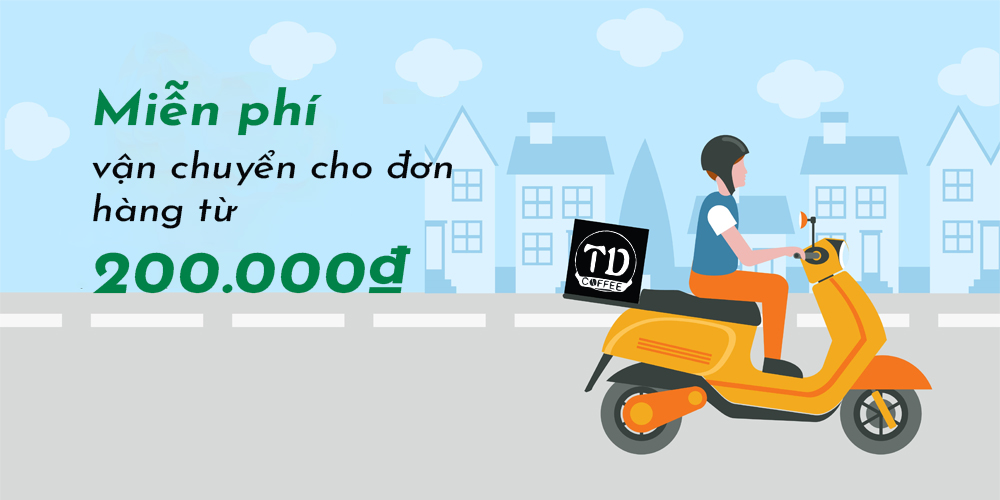
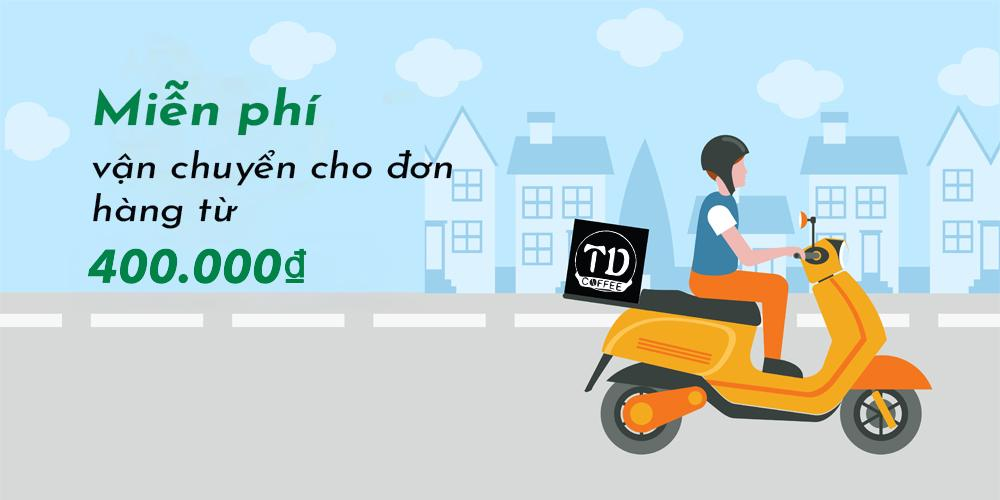
Update free ship

diff --git a/src/components/ShowShopcart/AllCartItem.tsx b/src/components/ShowShopcart/AllCartItem.tsx
@@ -6,7 +6,7 @@ import { IShopcartItem } from '@types';
 import { message } from 'antd';
 import { comma, convertToUrl, renderImageLink } from 'helper';
 import Link from 'next/link';
-import { removeItem } from 'redux/slice/shopcartSlice';
+import { removeItem, updateQuantity } from 'redux/slice/shopcartSlice';
 import { RootState } from 'redux/store';
 
 import InputNumber from 'components/InputNumber';
@@ -17,14 +17,14 @@ const AllCartItem = React.forwardRef<HTMLInputElement>((_, ref) => {
   const totalPrice = shopcart.reduce((total, item) => {
     return +item.quantity * +item.product.price + total;
   }, 0);
-  const [quantity, setQuantity] = useState('[]');
+  const [quantity, setQuantity] = useState<{ index: number; value: number }[]>([]);
 
   const productUrl = (item: IShopcartItem) => {
     return convertToUrl(`${item.product.name}-${item.product.id}`);
   };
 
   const handleChange = (value: number, index: number): void => {
-    const quan = JSON.parse(quantity);
+    const quan = [...quantity];
     let isExist = false;
     quan.forEach((element: { index: number; value: number }) => {
       if (element.index === index) {
@@ -35,8 +35,10 @@ const AllCartItem = React.forwardRef<HTMLInputElement>((_, ref) => {
     if (!isExist) {
       quan.push({ index, value });
     }
-    setQuantity(JSON.stringify(quan));
+    dispatch(updateQuantity({ index: index, value }));
+    setQuantity(quan);
   };
+
   const handleRemove = (_: React.MouseEvent, index: number): void => {
     message.success('Xóa sản phẩm thành công');
     dispatch(removeItem(index));

diff --git a/src/components/CheckOutItem.tsx b/src/components/CheckOutItem.tsx
@@ -2,6 +2,7 @@ import React, { useRef } from 'react';
 import { Form } from 'react-bootstrap';
 import { BsArrowLeftShort } from 'react-icons/bs';
 import { useSelector } from 'react-redux';
+import { FREE_SHIPPING } from '@constants';
 import { comma, renderImageLink } from 'helper';
 import { RootState } from 'redux/store';
 
@@ -12,7 +13,7 @@ const CheckOutItem: React.FC = () => {
   }, 0);
   const discount = order.promotionCode ? order.promotionCode.discount : 0;
   const shippingFee = order.shippingFee;
-  const shippingFeeReal = total < 200000 && shippingFee ? shippingFee : 0;
+  const shippingFeeReal = total < FREE_SHIPPING && shippingFee ? shippingFee : 0;
   const afterDiscount = total * (discount / 100);
   const showCart = useRef<HTMLDivElement>(null);
 
@@ -77,7 +78,7 @@ const CheckOutItem: React.FC = () => {
       <div className="check-out__total fs--9 order-3 order-lg-4">
         <p>Phí giao hàng:</p>
         <div className="flex-grow-1 text-end">
-          {total < 200000 ? (
+          {total < FREE_SHIPPING ? (
             comma(shippingFee || 0)
           ) : (
             <>

diff --git a/src/redux/slice/shopcartSlice.ts b/src/redux/slice/shopcartSlice.ts
@@ -27,12 +27,11 @@ const shopcartSlice = createSlice({
       state.data = addProduct(state.data, action.payload);
       localStorage.setItem('_shopcart', JSON.stringify(state.data));
     },
-    // updateQuantity: (state, action) => {
-    //   action.payload.forEach((element:IShopcartItem) => {
-    //     state.data[element.index].quantity = element.value;
-    //   });
-    //   localStorage.setItem('_shopcart', JSON.stringify(state.data));
-    // },
+    updateQuantity: (state, action) => {
+      const { index, value } = action.payload;
+      state.data[index].quantity = value;
+      localStorage.setItem('_shopcart', JSON.stringify(state.data));
+    },
     removeItem: (state, action) => {
       const index = +action.payload;
       state.data.splice(index, 1);
@@ -48,5 +47,5 @@ const shopcartSlice = createSlice({
   }
 });
 const { reducer, actions } = shopcartSlice;
-export const { addToCart, removeItem, asyncCart, resetCart, initialCart } = actions;
+export const { addToCart, removeItem, asyncCart, resetCart, initialCart, updateQuantity } = actions;
 export default reducer;

diff --git a/src/components/ProductDetail/ProductDetail.tsx b/src/components/ProductDetail/ProductDetail.tsx
@@ -1,6 +1,7 @@
 import React, { useRef, useState } from 'react';
 import { Button, Col, Row } from 'react-bootstrap';
 import { MdAddShoppingCart, MdLocalShipping, MdSentimentVerySatisfied } from 'react-icons/md';
+import { FREE_SHIPPING } from '@constants';
 import { IProduct } from '@types';
 import { message } from 'antd';
 import { comma } from 'helper';
@@ -93,8 +94,8 @@ const ProductDetail: React.FC<Props> = ({ product }) => {
           <MdSentimentVerySatisfied className="icon" /> Bạn có thể xem mô tả sản phẩm ở phía dưới!
         </p>
         <p>
-          <MdLocalShipping className="icon" /> Miễn phí vận chuyển toàn quốc với đơn hàng từ
-          200.000₫
+          <MdLocalShipping className="icon" /> Miễn phí vận chuyển toàn quốc với đơn hàng từ{' '}
+          {comma(FREE_SHIPPING)}₫
         </p>
       </div>
     </div>

diff --git a/src/constants/global.constant.ts b/src/constants/global.constant.ts
@@ -9,3 +9,6 @@ export const VERSION = '4.0';
 export const EMAIL_SERVICE_ID = 'caphethodung';
 export const EMAIL_TEMPLATE_ID = 'caphethodung_order';
 export const EMAIL_USER_ID = '2rzcie3_V0LmBfKFX';
+
+//config
+export const FREE_SHIPPING = 400000;
